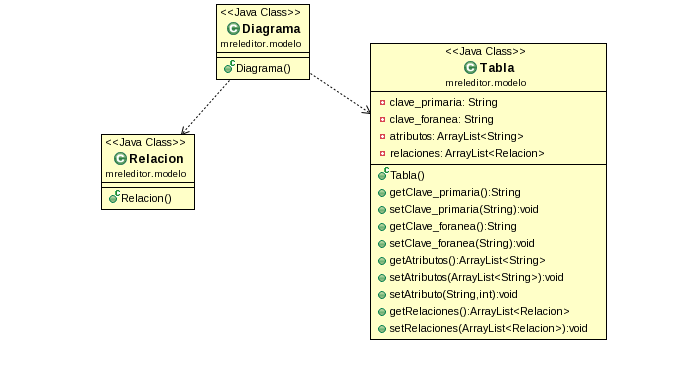
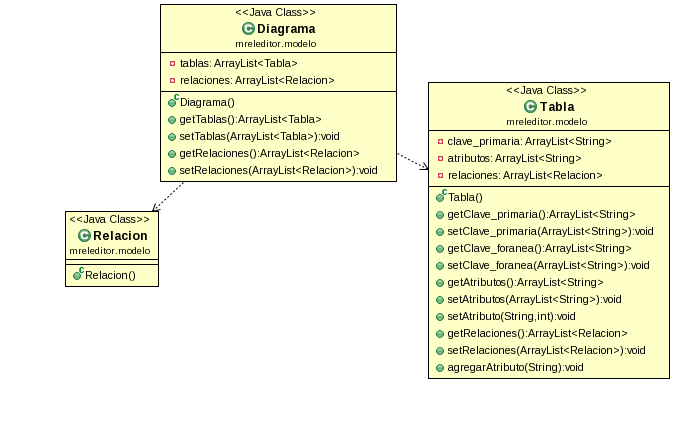
Agrego un metodo que me permite agregar un atributo al final sin indicar la posicion. Transformo las claves primarias y foraneas en listas de atributos.

diff --git a/TP/src/src/mreleditor/modelo/Tabla.java b/TP/src/src/mreleditor/modelo/Tabla.java
@@ -11,21 +11,21 @@ import java.util.ArrayList;
  */
 public class Tabla {
 
-	private String clave_primaria;
-	private String clave_foranea;
+	private ArrayList<String> clave_primaria;
+	private ArrayList<clave_foranea> clave_foranea;
 	private ArrayList<String> atributos;
 	private ArrayList<Relacion> relaciones;
 	
-	public String getClave_primaria() {
+	public ArrayList<String> getClave_primaria() {
 		return clave_primaria;
 	}
-	public void setClave_primaria(String clave_primaria) {
+	public void setClave_primaria(ArrayList<String> clave_primaria) {
 		this.clave_primaria = clave_primaria;
 	}
-	public String getClave_foranea() {
+	public ArrayList<String> getClave_foranea() {
 		return clave_foranea;
 	}
-	public void setClave_foranea(String clave_foranea) {
+	public void setClave_foranea(ArrayList<String> clave_foranea) {
 		this.clave_foranea = clave_foranea;
 	}
 	public ArrayList<String> getAtributos() {
@@ -43,6 +43,10 @@ public class Tabla {
 	}
 	public void setRelaciones(ArrayList<Relacion> relaciones) {
 		this.relaciones = relaciones;
+	}
+	
+	public void agregarAtributo(String atributo) {
+		this.atributos.add(atributo);
 	}
 	
 	

diff --git a/TP/src/src/mreleditor/modelo/Diagrama.java b/TP/src/src/mreleditor/modelo/Diagrama.java
@@ -3,10 +3,26 @@
  */
 package mreleditor.modelo;
 
+import java.util.ArrayList;
+
 /**
  * @author guido
  *
  */
 public class Diagrama {
-
+	private ArrayList<Tabla> tablas;
+	private ArrayList<Relacion> relaciones;
+	public ArrayList<Tabla> getTablas() {
+		return tablas;
+	}
+	public void setTablas(ArrayList<Tabla> tablas) {
+		this.tablas = tablas;
+	}
+	public ArrayList<Relacion> getRelaciones() {
+		return relaciones;
+	}
+	public void setRelaciones(ArrayList<Relacion> relaciones) {
+		this.relaciones = relaciones;
+	}
+	
 }
